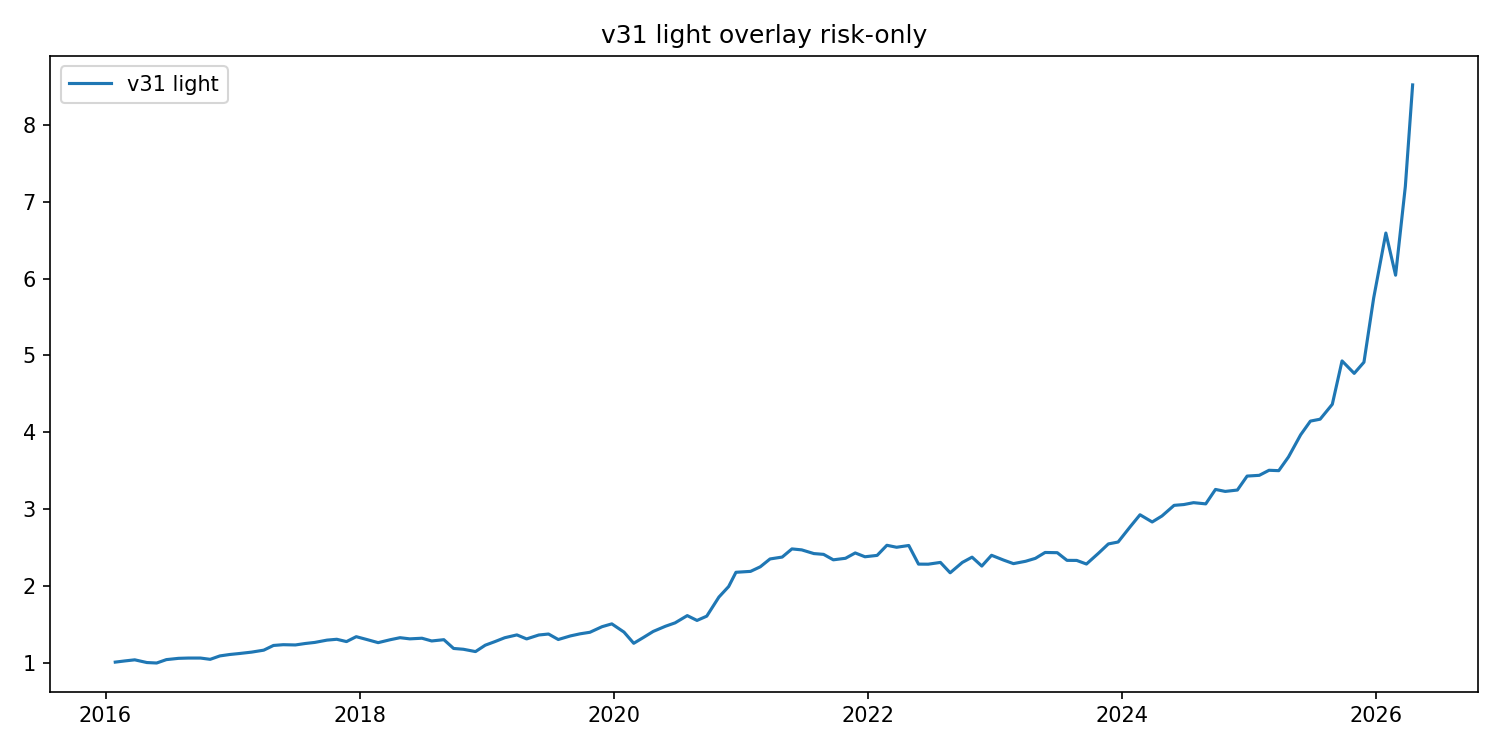
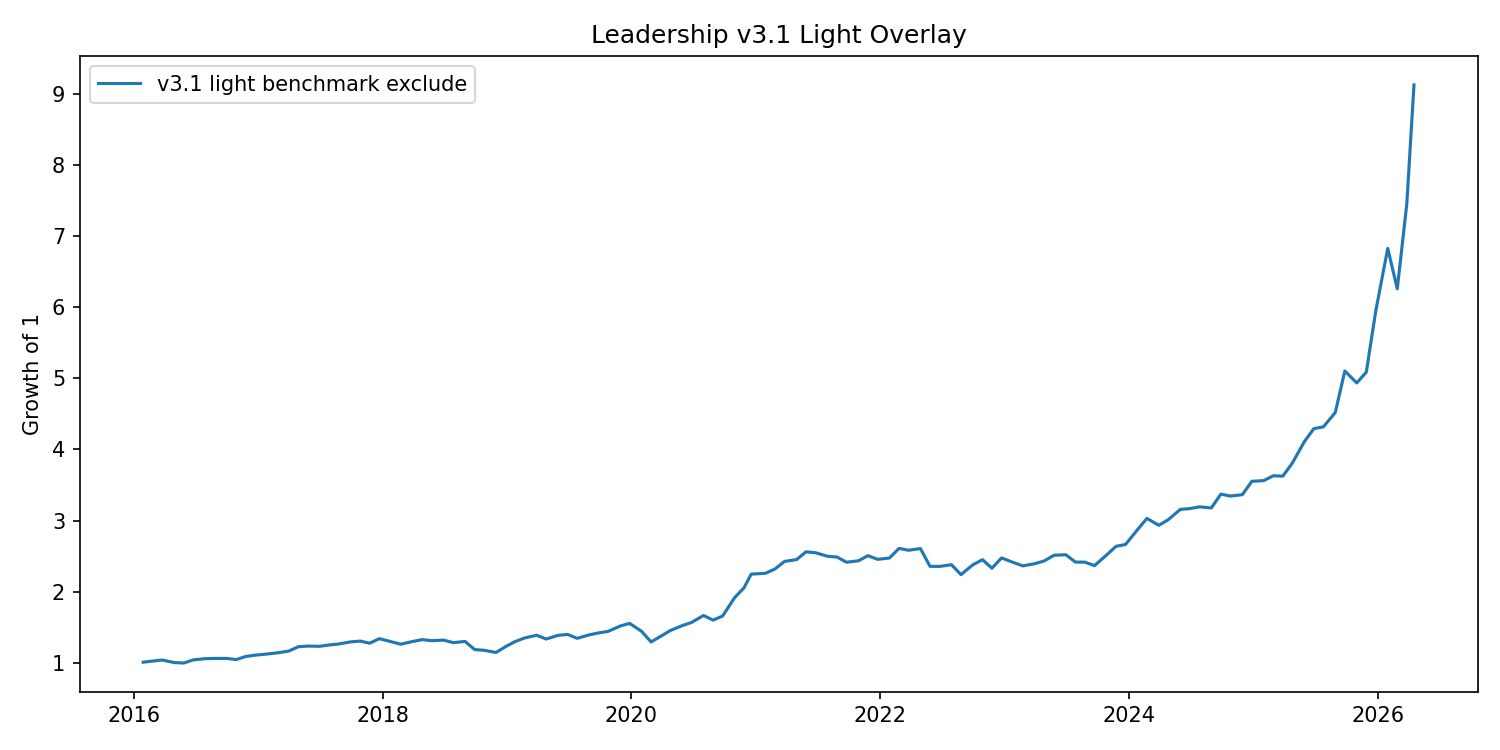
Add benchmark-strong exclusions to v31 overlay

diff --git a/scripts/leadership_v31_light_overlay_backtest.py b/scripts/leadership_v31_light_overlay_backtest.py
@@ -1,0 +1,291 @@
+from __future__ import annotations
+
+import argparse
+from pathlib import Path
+
+import numpy as np
+import pandas as pd
+
+from leadership_v2_constrained_70_30_backtest import (
+    ETF_CAP,
+    RISK_CAPS,
+    add_taxonomy,
+    allocate_by_caps,
+    cagr,
+    max_drawdown,
+    sharpe,
+)
+
+
+DEFAULT_INPUT = Path("outputs/leadership_v2_walkforward/walkforward_predictions.csv")
+DEFAULT_OUTPUT = Path("outputs/leadership_v31_light_overlay")
+
+MEAN_REVERSION_GROUPS = {"China equity", "China/HK growth", "Korea cyclical", "Korea value"}
+CYCLICAL_GROUPS = {
+    "China equity",
+    "China/HK growth",
+    "Korea cyclical",
+    "Korea value",
+    "Korea defensive",
+    "Commodity/Oil",
+    "Oil",
+}
+BENCHMARK_SENSITIVE_EXCLUDES = {"105010.KS", "101280.KS"}  # Latin America, Japan TOPIX
+
+
+def parse_args() -> argparse.Namespace:
+    p = argparse.ArgumentParser(description="Leadership v3.1 light overlay with benchmark-strong exclusions.")
+    p.add_argument("--input", default=str(DEFAULT_INPUT))
+    p.add_argument("--output-dir", default=str(DEFAULT_OUTPUT))
+    p.add_argument("--tree-std-threshold", type=float, default=0.03067)
+    p.add_argument("--benchmark-20d-threshold", type=float, default=0.03)
+    p.add_argument("--benchmark-60d-threshold", type=float, default=0.08)
+    p.add_argument("--plot", action="store_true")
+    return p.parse_args()
+
+
+def main() -> None:
+    args = parse_args()
+    out_dir = Path(args.output_dir)
+    out_dir.mkdir(parents=True, exist_ok=True)
+
+    pred = pd.read_csv(args.input, parse_dates=["date"])
+    pred = add_taxonomy(pred)
+    pred = add_v31_light_score(pred, args.benchmark_20d_threshold, args.benchmark_60d_threshold)
+    pred.to_csv(out_dir / "predictions_with_v31_light_score.csv", index=False, encoding="utf-8-sig")
+
+    portfolio, holdings, orders = run_backtest(
+        pred,
+        tree_std_threshold=args.tree_std_threshold,
+    )
+    summary = pd.DataFrame([summarize(portfolio, "v31_light_overlay_benchmark_exclude")])
+    yearly = yearly_summary(portfolio)
+
+    portfolio.to_csv(out_dir / "portfolio_returns.csv", index=False, encoding="utf-8-sig")
+    holdings.to_csv(out_dir / "target_holdings.csv", index=False, encoding="utf-8-sig")
+    orders.to_csv(out_dir / "rebalance_orders.csv", index=False, encoding="utf-8-sig")
+    summary.to_csv(out_dir / "summary.csv", index=False, encoding="utf-8-sig")
+    yearly.to_csv(out_dir / "yearly.csv", index=False, encoding="utf-8-sig")
+
+    if args.plot:
+        plot_equity(portfolio, out_dir / "equity_curve.png")
+
+    print(summary.to_string(index=False))
+    print()
+    print(yearly.to_string(index=False))
+
+
+def add_v31_light_score(frame: pd.DataFrame, benchmark_20d_threshold: float, benchmark_60d_threshold: float) -> pd.DataFrame:
+    out = frame.copy()
+    numeric_cols = [
+        "ETF_RS_20D",
+        "ETF_RS_60D",
+        "ETF_RS_120D",
+        "RS_slope_20D",
+        "Breadth_change_20D",
+        "MA60_breadth",
+        "ranker_score",
+        "rule_20d_score",
+        "benchmark_return_20D",
+        "benchmark_return_60D",
+    ]
+    for col in numeric_cols:
+        out[col] = pd.to_numeric(out[col], errors="coerce").fillna(0.0)
+
+    out["persistent_rs"] = (
+        0.15 * z_by_date(out, "ETF_RS_20D")
+        + 0.40 * z_by_date(out, "ETF_RS_60D")
+        + 0.35 * z_by_date(out, "ETF_RS_120D")
+        + 0.10 * z_by_date(out, "RS_slope_20D")
+    )
+    out["is_mean_reversion_group"] = out["ranking_group"].isin(MEAN_REVERSION_GROUPS)
+    out["is_cyclical_group"] = out["ranking_group"].isin(CYCLICAL_GROUPS)
+
+    short_rebound = out["ETF_RS_20D"].gt(0) & (out["ETF_RS_60D"].lt(0) | out["ETF_RS_120D"].lt(0))
+    weak_persistence = out["ETF_RS_60D"].lt(0) & out["ETF_RS_120D"].lt(0)
+    weak_trend = out["MA60_breadth"].lt(0.45) | out["Breadth_change_20D"].lt(0)
+    out["benchmark_strong"] = out["benchmark_return_20D"].gt(benchmark_20d_threshold) | out["benchmark_return_60D"].gt(
+        benchmark_60d_threshold
+    )
+    out["benchmark_strong_excluded"] = out["benchmark_strong"] & out["etf_ticker"].isin(BENCHMARK_SENSITIVE_EXCLUDES)
+
+    out["v31_light_score"] = out["ranker_score"] + 0.03 * out["persistent_rs"]
+    out["v31_light_score"] += np.where(out["is_mean_reversion_group"] & short_rebound, -0.15, 0.0)
+    out["v31_light_score"] += np.where(out["is_cyclical_group"] & weak_persistence, -0.10, 0.0)
+    out["v31_light_score"] += np.where(out["is_cyclical_group"] & weak_trend, -0.05, 0.0)
+    return out
+
+
+def z_by_date(frame: pd.DataFrame, col: str) -> pd.Series:
+    x = pd.to_numeric(frame[col], errors="coerce")
+    mean = x.groupby(frame["date"]).transform("mean")
+    std = x.groupby(frame["date"]).transform("std").replace(0, np.nan)
+    return ((x - mean) / std).replace([np.inf, -np.inf], np.nan).fillna(0.0)
+
+
+def monthly_dates(frame: pd.DataFrame) -> list[pd.Timestamp]:
+    idx = pd.DatetimeIndex(pd.to_datetime(frame["date"]).dropna().unique()).sort_values()
+    return pd.Series(idx, index=idx).groupby(idx.to_period("M")).max().tolist()
+
+
+def risk_caps_100() -> dict[str, float]:
+    return {k: v / 0.70 for k, v in RISK_CAPS.items()}
+
+
+def run_backtest(pred: pd.DataFrame, tree_std_threshold: float) -> tuple[pd.DataFrame, pd.DataFrame, pd.DataFrame]:
+    portfolio_rows = []
+    holding_rows = []
+    order_rows = []
+    previous_weights: dict[str, float] = {}
+    previous_meta: dict[str, object] = {}
+
+    for dt in monthly_dates(pred):
+        sample = pred[pred["date"].eq(dt)].copy()
+        filtered = sample[~sample["benchmark_strong_excluded"]].copy()
+        if filtered.empty:
+            filtered = sample
+
+        active_score = "v31_light_score" if sample["ranker_group_score_std"].ge(tree_std_threshold).any() else "rule_20d_score"
+        overlay_leg = "tree" if active_score == "v31_light_score" else "rule"
+        selected = allocate_ranked(filtered, active_score, risk_caps_100())
+        if selected["target_weight"].sum() < 1.0 - 1e-9:
+            selected = allocate_ranked(sample, active_score, risk_caps_100())
+
+        selected["date"] = dt
+        selected["strategy"] = "v31_light_overlay_benchmark_exclude"
+        selected["overlay_leg"] = overlay_leg
+
+        benchmark = benchmark_return(sample)
+        returns = []
+        excesses = []
+        for row in selected.itertuples(index=False):
+            base = sample[sample["etf_ticker"].eq(row.ticker)]
+            if base.empty:
+                returns.append(0.0)
+                excesses.append(0.0)
+                continue
+            ret = float(base["forward_20D_return"].iloc[0])
+            returns.append(ret)
+            excesses.append(ret - benchmark)
+        selected["forward_return"] = returns
+        selected["benchmark_return"] = benchmark
+        selected["forward_excess"] = excesses
+        selected["weighted_return"] = selected["target_weight"] * selected["forward_return"]
+        selected["weighted_excess"] = selected["target_weight"] * selected["forward_excess"]
+
+        portfolio_rows.append(
+            {
+                "date": dt,
+                "strategy": "v31_light_overlay_benchmark_exclude",
+                "overlay_leg": overlay_leg,
+                "portfolio_return": float(selected["weighted_return"].sum()),
+                "benchmark_return": benchmark,
+                "excess_return": float(selected["weighted_excess"].sum()),
+                "risk_weight": float(selected["target_weight"].sum()),
+                "excluded_by_benchmark_strong": ",".join(
+                    sample.loc[sample["benchmark_strong_excluded"], "etf_ticker"].astype(str).tolist()
+                ),
+                "holdings": ",".join(f"{r.ticker}:{r.target_weight:.4f}" for r in selected.itertuples(index=False)),
+            }
+        )
+        holding_rows.extend(selected.to_dict("records"))
+
+        current_weights = dict(zip(selected["ticker"], selected["target_weight"]))
+        current_meta = {row.ticker: row for row in selected.itertuples(index=False)}
+        for ticker in sorted(set(previous_weights) | set(current_weights)):
+            old = previous_weights.get(ticker, 0.0)
+            new = current_weights.get(ticker, 0.0)
+            delta = new - old
+            if abs(delta) < 1e-9:
+                continue
+            meta = current_meta.get(ticker, previous_meta.get(ticker))
+            order_rows.append(
+                {
+                    "date": dt,
+                    "ticker": ticker,
+                    "name": getattr(meta, "name", ticker),
+                    "sub_asset": getattr(meta, "sub_asset", ""),
+                    "previous_weight": old,
+                    "target_weight": new,
+                    "trade_weight": delta,
+                    "action": "BUY" if delta > 0 else "SELL",
+                    "overlay_leg": overlay_leg,
+                }
+            )
+        previous_weights = current_weights
+        previous_meta = current_meta
+
+    return pd.DataFrame(portfolio_rows), pd.DataFrame(holding_rows), pd.DataFrame(order_rows)
+
+
+def allocate_ranked(sample: pd.DataFrame, score_col: str, caps: dict[str, float]) -> pd.DataFrame:
+    rows = []
+    used_cyclical_slots = 0
+    for _, row in sample.sort_values(score_col, ascending=False).iterrows():
+        if bool(row.get("is_cyclical_group", False)) and used_cyclical_slots >= 2:
+            continue
+        rows.append(row)
+        if bool(row.get("is_cyclical_group", False)):
+            used_cyclical_slots += 1
+        allocated = allocate_by_caps(pd.DataFrame(rows), score_col, 1.0, "sub_asset", caps, ETF_CAP)
+        if allocated[allocated["ticker"].ne("CASH_KRW")]["target_weight"].sum() >= 1.0 - 1e-12:
+            return allocated[allocated["ticker"].ne("CASH_KRW")]
+
+    allocated = allocate_by_caps(pd.DataFrame(rows), score_col, 1.0, "sub_asset", caps, ETF_CAP)
+    return allocated[allocated["ticker"].ne("CASH_KRW")]
+
+
+def benchmark_return(sample: pd.DataFrame) -> float:
+    kospi200 = sample[sample["etf_ticker"].eq("069500.KS")]
+    if not kospi200.empty:
+        return float(kospi200["forward_20D_return"].iloc[0])
+    return float(sample["benchmark_forward_20D_return"].mean())
+
+
+def summarize(portfolio: pd.DataFrame, label: str) -> dict[str, object]:
+    returns = portfolio["portfolio_return"].astype(float)
+    excess = portfolio["excess_return"].astype(float)
+    eq = (1 + returns.fillna(0)).cumprod()
+    exeq = (1 + excess.fillna(0)).cumprod()
+    return {
+        "label": label,
+        "periods": int(len(portfolio)),
+        "cumulative_return": float(eq.iloc[-1] - 1),
+        "cumulative_excess_return": float(exeq.iloc[-1] - 1),
+        "CAGR": cagr(eq.iloc[-1], len(portfolio), 12),
+        "MDD": max_drawdown(eq),
+        "Sharpe": sharpe(returns, 12),
+        "avg_monthly_return": float(returns.mean()),
+        "avg_monthly_excess": float(excess.mean()),
+        "hit_excess": float((excess > 0).mean()),
+        "avg_risk_weight": float(portfolio["risk_weight"].mean()),
+    }
+
+
+def yearly_summary(portfolio: pd.DataFrame) -> pd.DataFrame:
+    out = portfolio.copy()
+    out["year"] = pd.to_datetime(out["date"]).dt.year
+    rows = []
+    for year, group in out.groupby("year"):
+        row = summarize(group.drop(columns=["year"]), f"year_{year}")
+        row["year"] = int(year)
+        rows.append(row)
+    return pd.DataFrame(rows)
+
+
+def plot_equity(portfolio: pd.DataFrame, path: Path) -> None:
+    import matplotlib.pyplot as plt
+
+    eq = (1 + portfolio["portfolio_return"].fillna(0)).cumprod()
+    fig, ax = plt.subplots(figsize=(10, 5))
+    ax.plot(portfolio["date"], eq, label="v3.1 light benchmark exclude")
+    ax.set_title("Leadership v3.1 Light Overlay")
+    ax.set_ylabel("Growth of 1")
+    ax.legend()
+    fig.tight_layout()
+    fig.savefig(path, dpi=150)
+    plt.close(fig)
+
+
+if __name__ == "__main__":
+    main()

diff --git a/README.md b/README.md
@@ -5,7 +5,7 @@
 ## 핵심 구성
 
 - `v2`: 기존 리더십 피처 기반 LightGBM walk-forward ranker
-- `v3.1 light overlay`: v2 점수에 지속성 상대강도와 단기 반등 패널티를 약하게 얹은 위험자산 100% overlay
+- `v3.1 light overlay`: v2 점수에 지속성 상대강도와 단기 반등 패널티를 약하게 얹고, 벤치마크 강세장에서 라틴/일본 ETF를 제외하는 위험자산 100% overlay
 - `rule vs ranker compare`: 단순 rule ranking과 Tree ranker를 같은 output 형식으로 비교
 - `beta RS / ATR compare`: Beta-adjusted RS와 ATR 이격도를 사용하는 단순 기술 분석 ranking vs Tree model 비교
 
@@ -23,6 +23,7 @@ scripts/
   walkforward_leadership_v2_backtest.py
   leadership_v2_constrained_70_30_backtest.py
   leadership_v2_sleeve_only_backtest.py
+  leadership_v31_light_overlay_backtest.py
   walkforward_leadership_v31_excess_ranker.py
   leadership_rule_vs_ranker_compare.py
   walkforward_etf_beta_rs_atr_compare.py
@@ -68,6 +69,12 @@ v3.1 excess-ranker 실험:
 python scripts/walkforward_leadership_v31_excess_ranker.py --plot
 ```
 
+v3.1 light overlay:
+
+```bash
+python scripts/leadership_v31_light_overlay_backtest.py --plot
+```
+
 단순 rule ranking vs Tree ranker 비교:
 
 ```bash
@@ -87,13 +94,13 @@ python scripts/walkforward_etf_beta_rs_atr_compare.py --plot
 | 모델 | 누적수익률 | CAGR | MDD | Sharpe | 누적 초과수익 |
 |---|---:|---:|---:|---:|---:|
 | v2 risk-only | 722.37% | 22.62% | -16.97% | 1.28 | 12.04% |
-| v3.1 light overlay | 751.91% | 23.04% | -16.77% | 1.30 | 16.55% |
+| v3.1 light overlay | 812.59% | 23.86% | -16.77% | 1.32 | 25.94% |
 
 해석:
 
-- v3.1 light는 장기 성과를 소폭 개선했습니다.
-- 2025~2026 구간에서는 벤치마크 강세장 대응이 부족해 초과수익이 약했습니다.
-- 다음 개선 방향은 단순 점수 조정보다 regime별 내부비중 조절입니다.
+- v3.1 light는 장기 성과와 누적 초과수익을 개선했습니다.
+- 적용된 추가 룰: `KODEX 200 20D > 3%` 또는 `60D > 8%`인 벤치마크 강세장에서는 `TIGER 라틴35(105010.KS)`, `KODEX 일본TOPIX100(101280.KS)`를 편입 후보에서 제외합니다.
+- 2026 초과수익 열위는 줄었지만 2025 열위는 남아 있어, 다음 개선 방향은 regime별 내부비중 조절입니다.
 
 ## 데이터 주의사항
 
